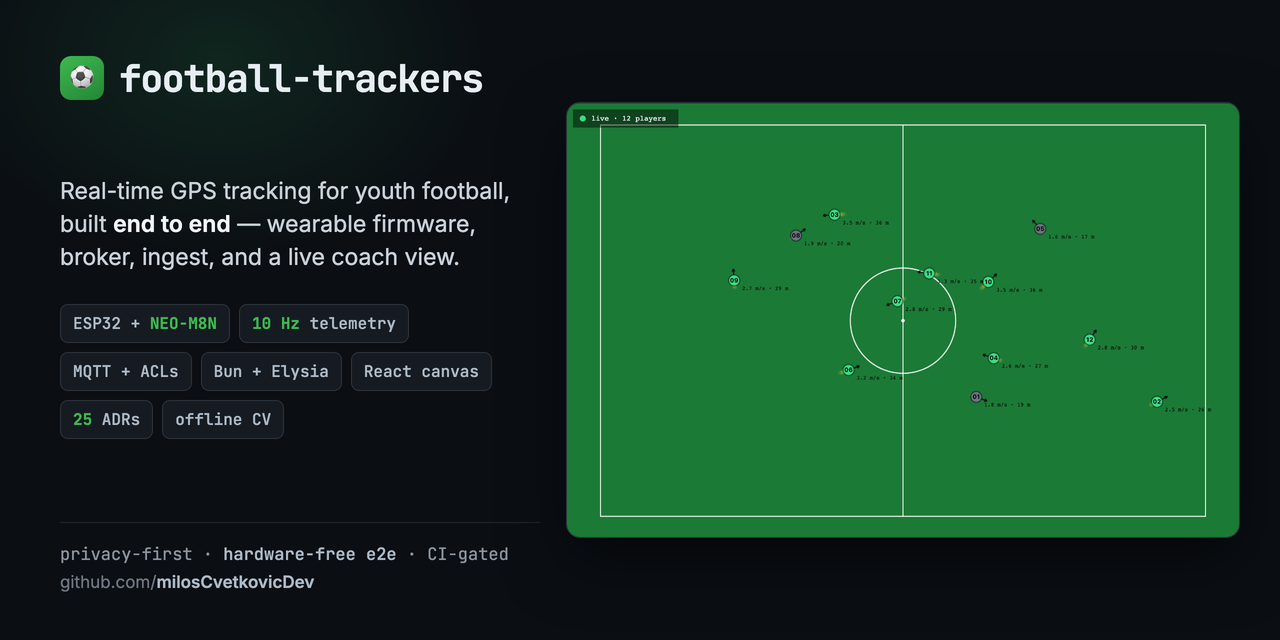
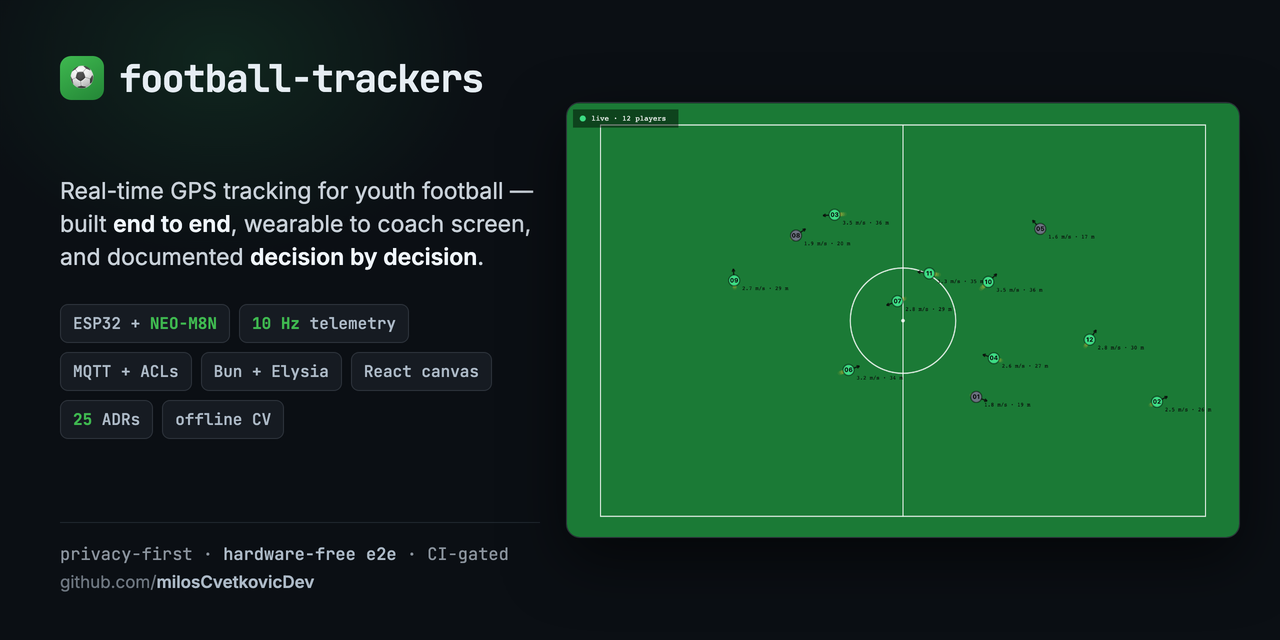
Social preview: spotlight the documentation story
The lede's system enumeration (firmware, broker, ingest, coach view) was
redundant with the chips right below it; swap it for the repo's reading
story — built end to end, documented decision by decision. The 25-ADRs
chip now has the claim it quantifies.

Changed region(s): [[0.0312, 0.3438, 0.4062, 0.4375]]

diff --git a/docs/images/social-preview.html b/docs/images/social-preview.html
@@ -101,8 +101,9 @@
     </div>
     <div class="body">
       <p class="lede">
-        Real-time GPS tracking for youth football, built <b>end to end</b> —
-        wearable firmware, broker, ingest, and a live coach view.
+        Real-time GPS tracking for youth football — built <b>end to end</b>,
+        wearable to coach screen, and documented
+        <b>decision&nbsp;by&nbsp;decision</b>.
       </p>
       <div class="chips">
         <span class="chip">ESP32 + <b>NEO-M8N</b></span>
